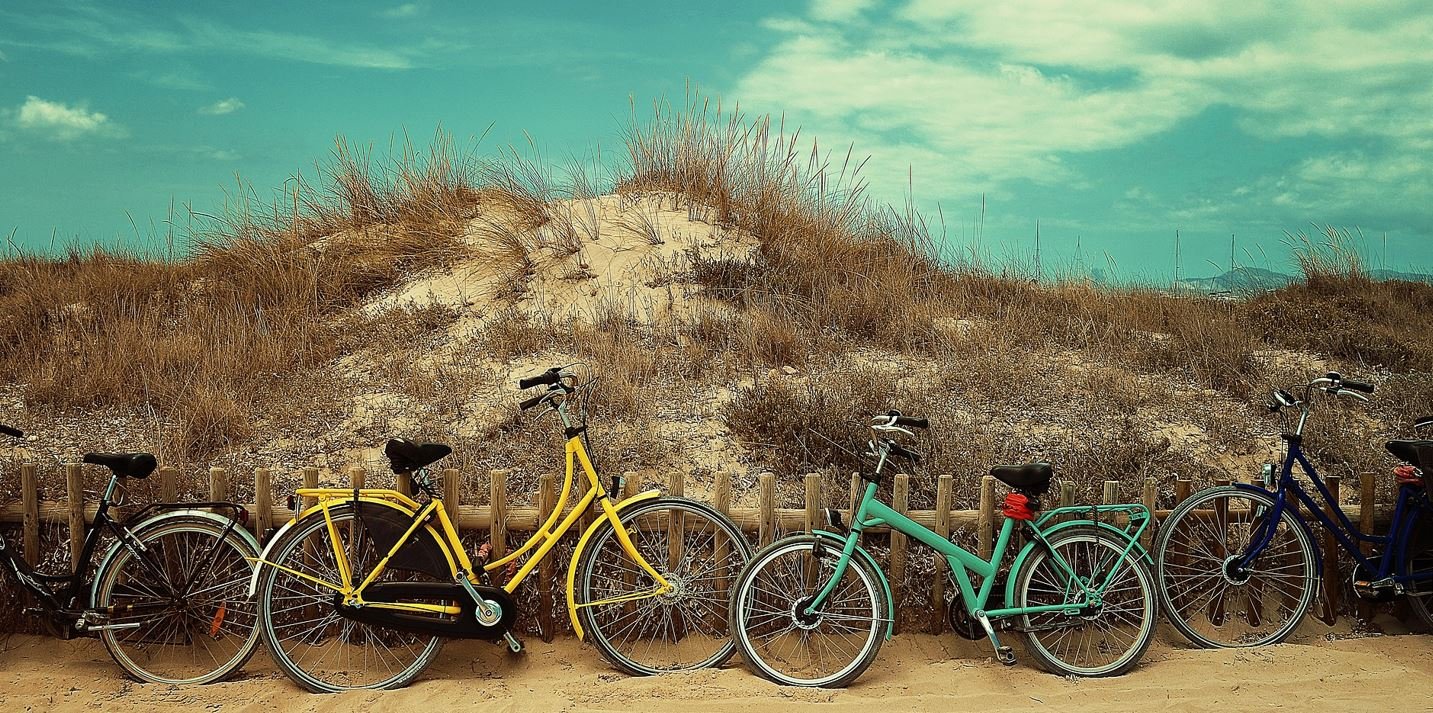
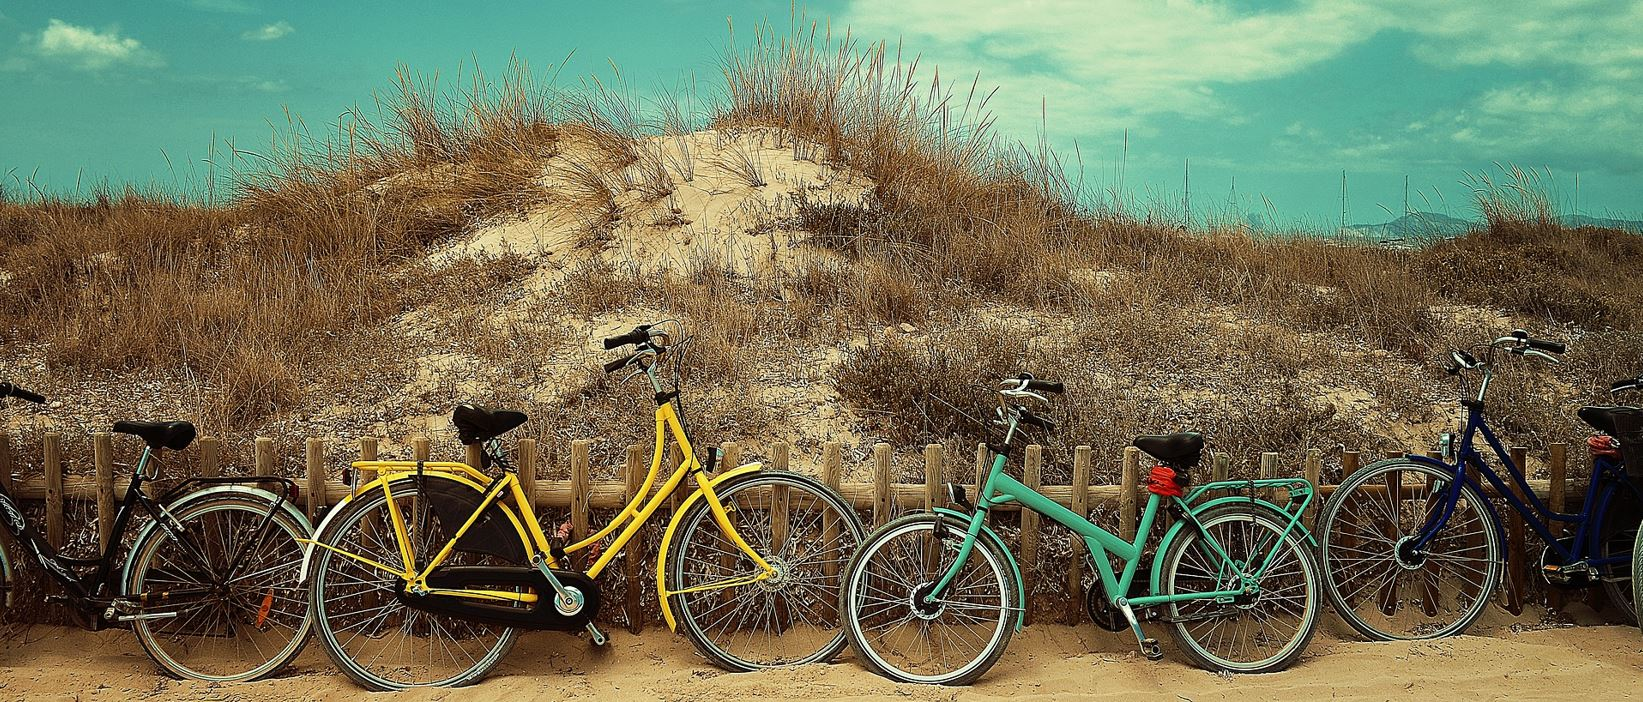
final version

diff --git a/style.css b/style.css
@@ -67,7 +67,7 @@ main {
 
 main .banner {
     background-color: #282828;
-    background-image: url("banner2.JPG");
+    background-image: url("banner.JPG");
     background-repeat: no-repeat;
     background-size: cover;
     background-position: bottom;
